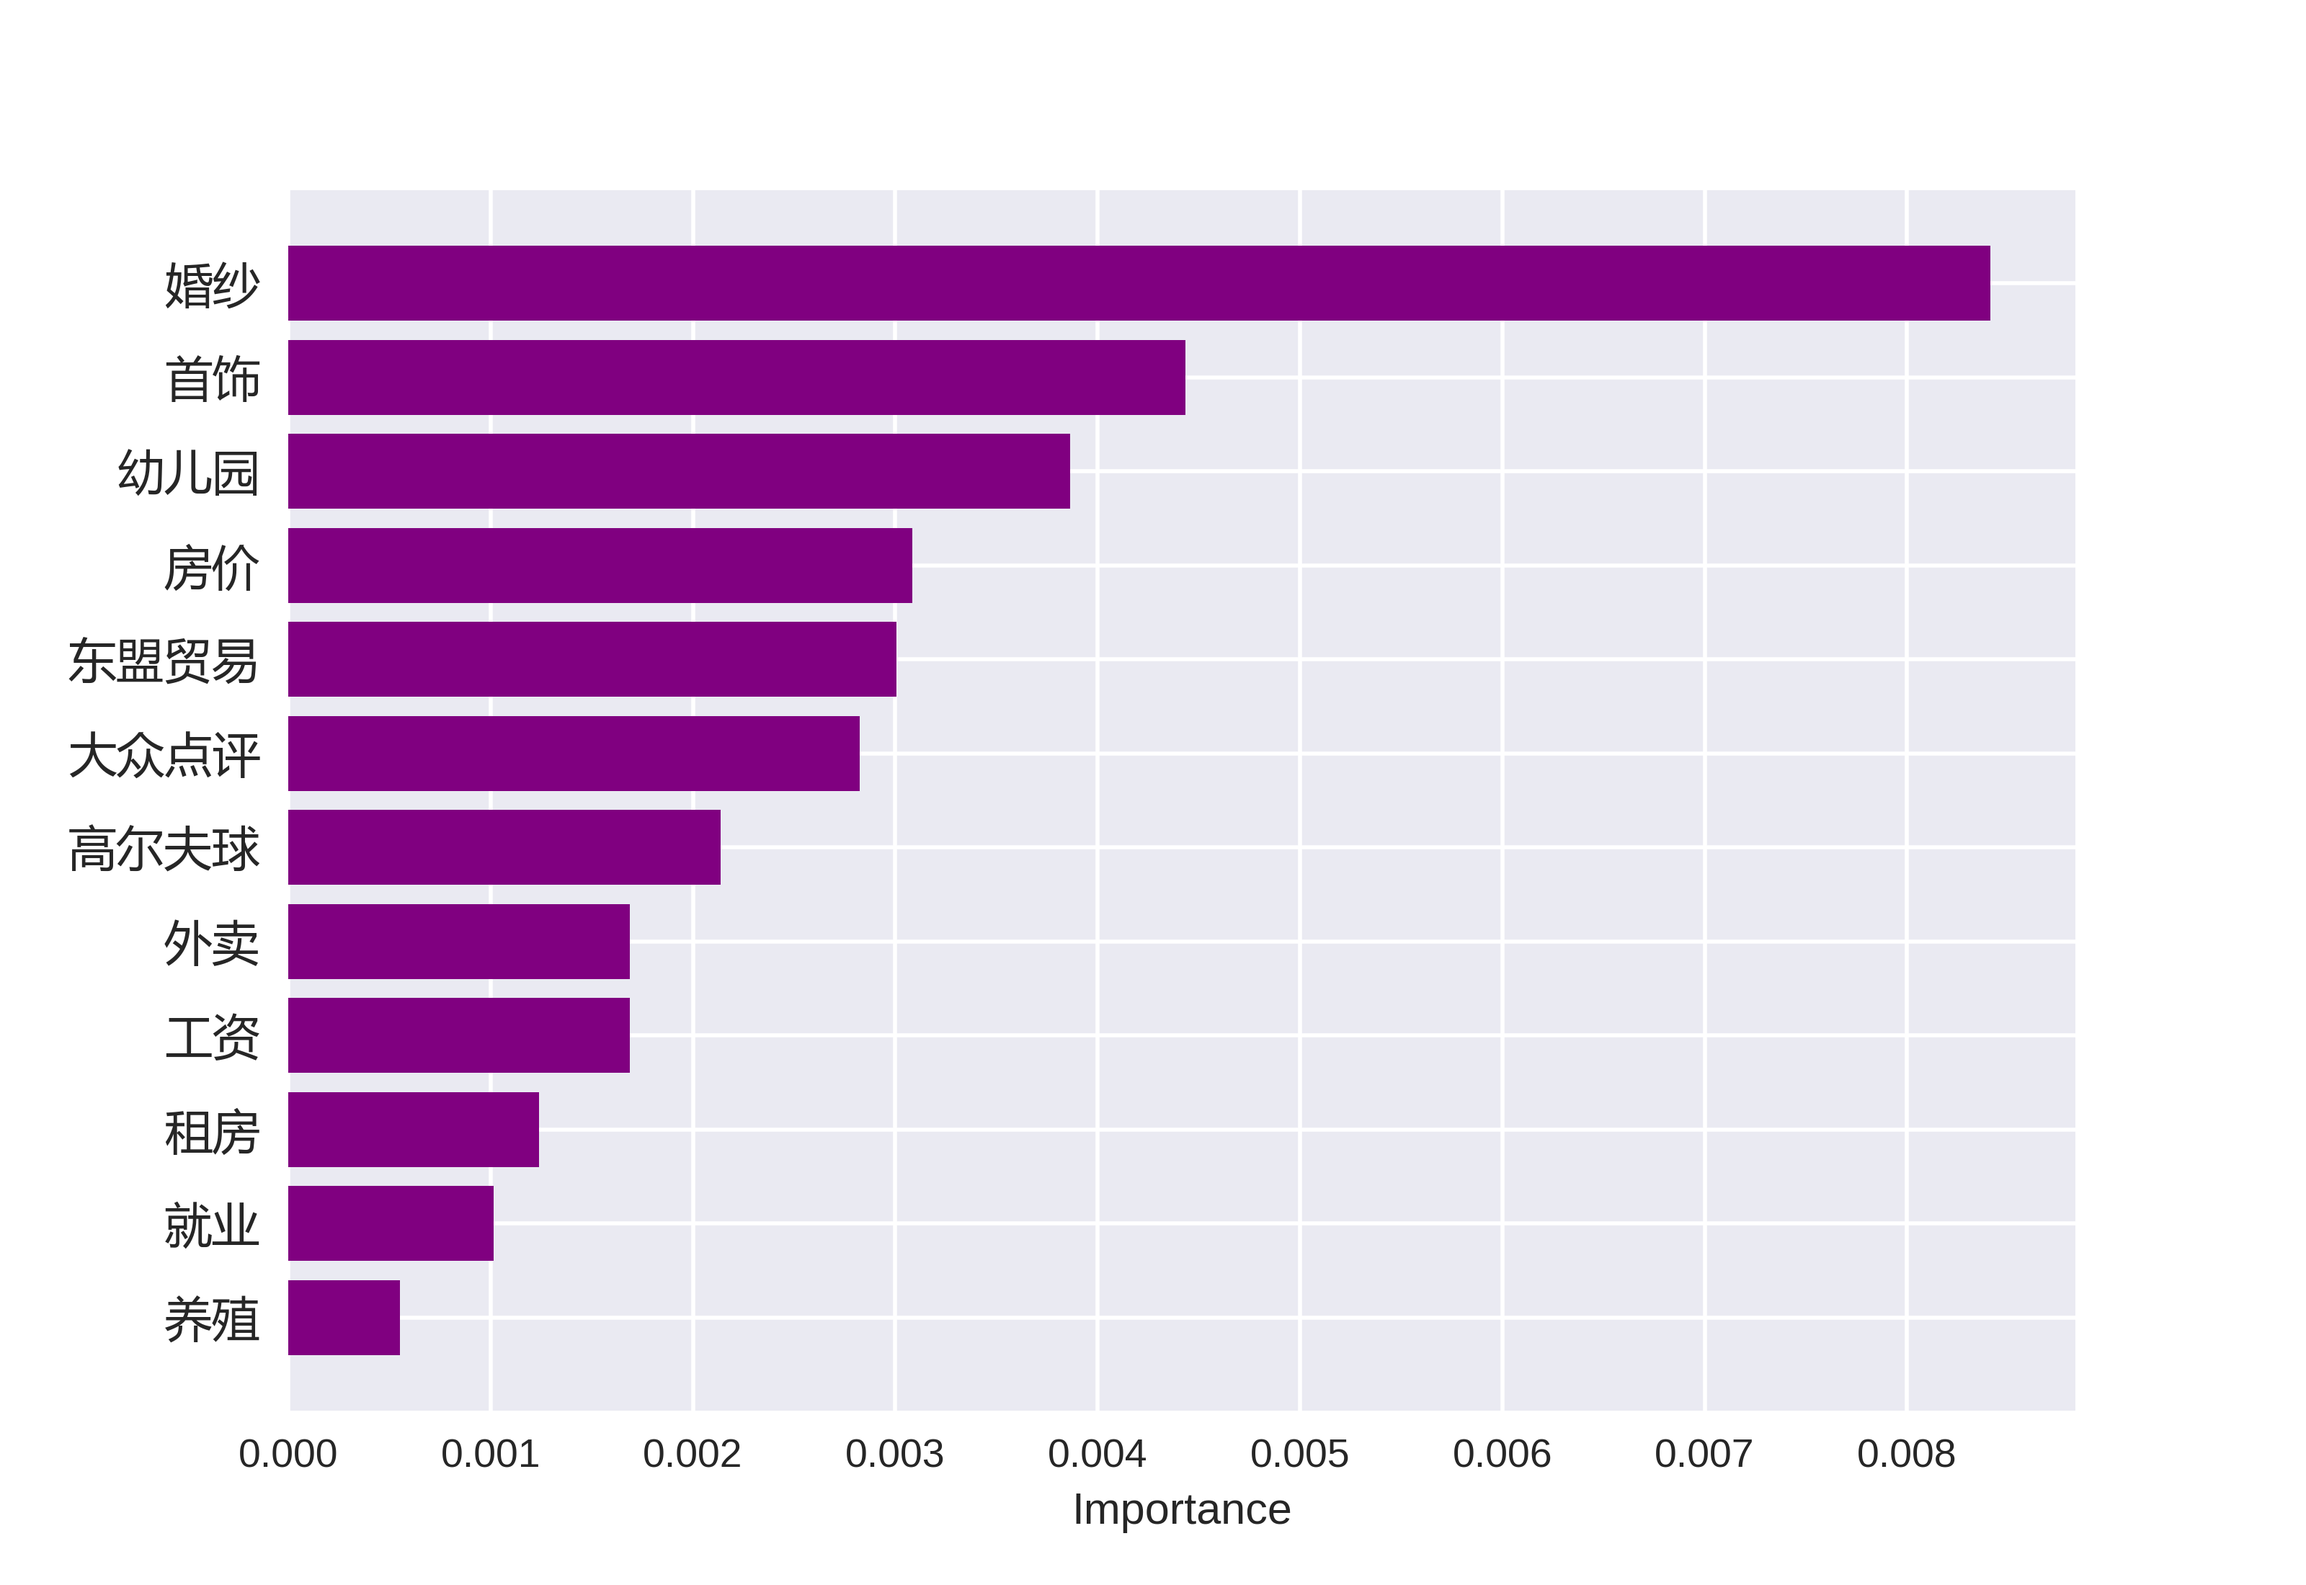
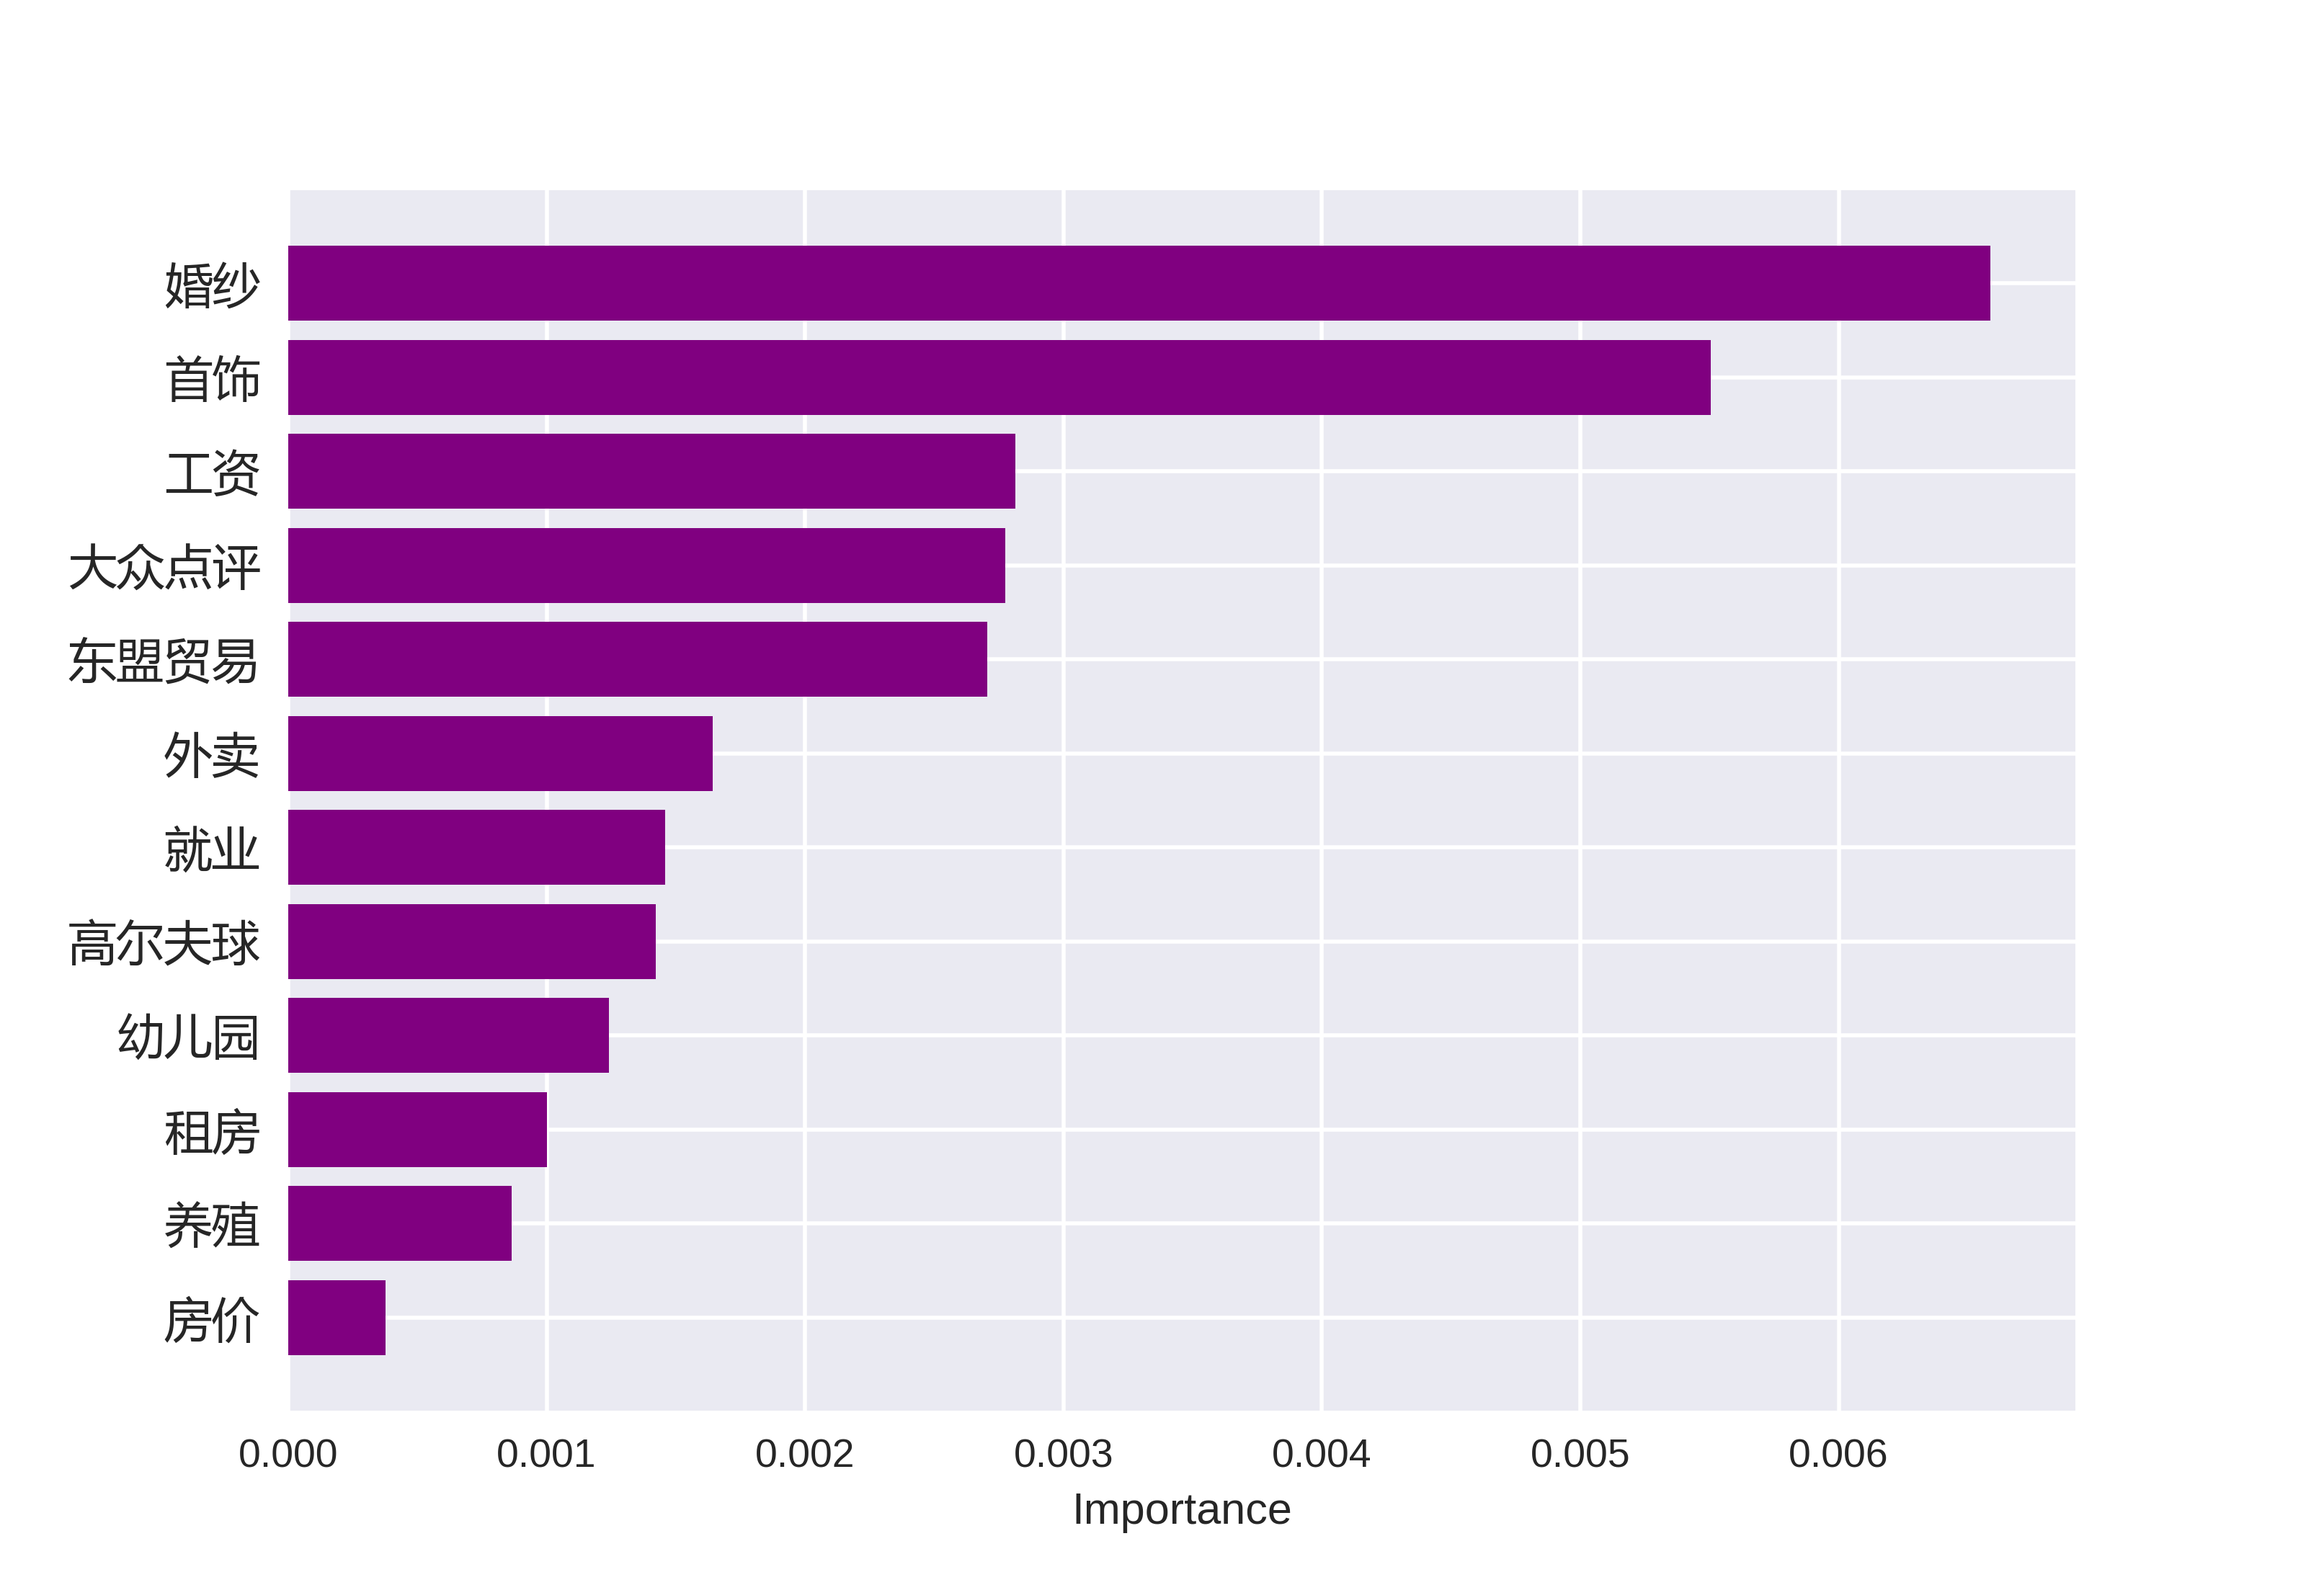
update result

diff --git a/mlearning/lassocv.py b/mlearning/lassocv.py
@@ -64,7 +64,7 @@ train_Y = data_clean.iloc[:-1, -1]
 pred_X = X_pred_std
 
 # 进行lasso回归的n_folds交叉验证,选择最好的模型
-num_folds = 20
+num_folds = 5
 lasso_model = LassoCV(cv=num_folds).fit(train_X, train_Y)
 
 fig1, ax1 = plt.subplots()
